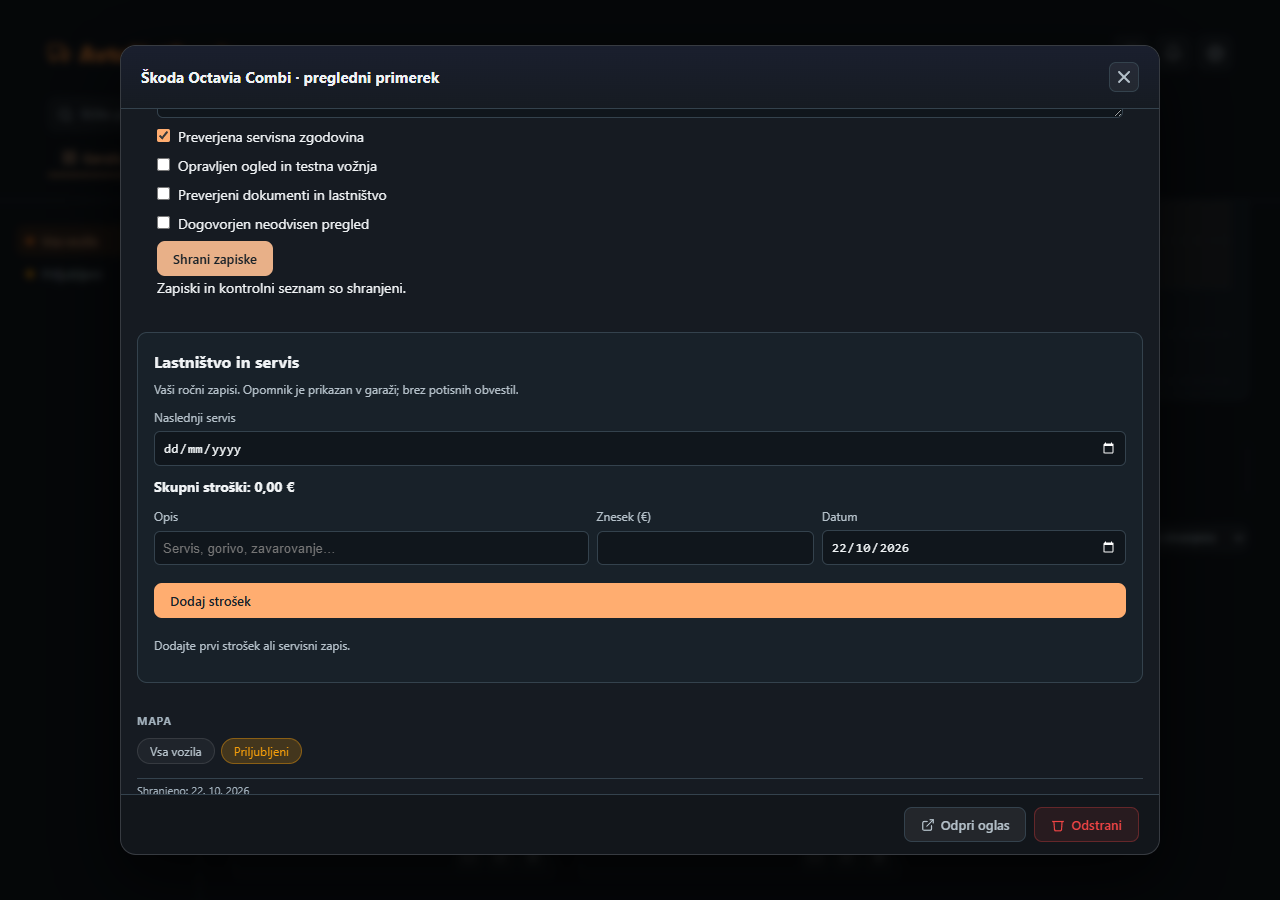
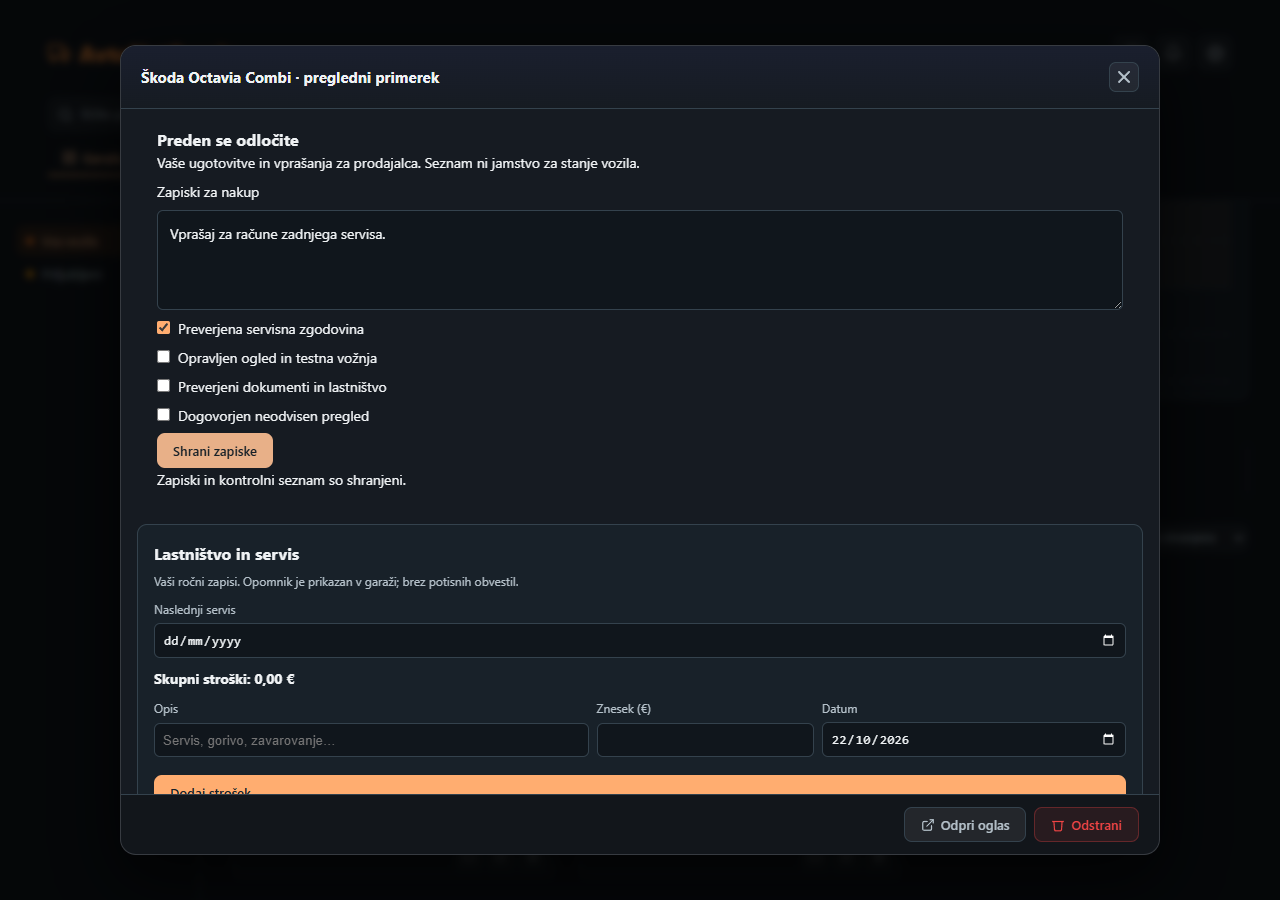
Complete screenshot review and clarify product limitations

diff --git a/extension/src/popup/components/NotificationsPanel.jsx b/extension/src/popup/components/NotificationsPanel.jsx
@@ -42,7 +42,7 @@ export default function NotificationsPanel({ notifications, onDataChange }) {
           </div>
           <h3 className="empty-title">Še ni obvestil</h3>
           <p className="empty-desc">
-            AvtoNetGaraža vas bo obvestila, ko se cena spremeni ali ko je oglas prodan oziroma odstranjen.
+            Tu se prikažejo zaznane spremembe cene in statusa. Preverjanje je mogoče le, ko avto.net omogoča dostop do oglasa.
           </p>
         </div>
       </div>

diff --git a/extension/src/popup/components/Settings.jsx b/extension/src/popup/components/Settings.jsx
@@ -86,7 +86,7 @@ export default function Settings({ settings, onDataChange }) {
         <div className="settings-row">
           <div>
             <h3>Chrome obvestila</h3>
-            <p>Spremljanje cen in statusa deluje tudi, ko so obvestila izklopljena.</p>
+            <p>Preverjanje poteka tudi brez obvestil, če avto.net omogoča dostop do oglasa.</p>
           </div>
           <label className="switch">
             <input

diff --git a/docs/flagship/VISUAL_QA_REPORT.md b/docs/flagship/VISUAL_QA_REPORT.md
@@ -1,0 +1,33 @@
+# Visual QA report — 22 October 2026
+
+Actual extension pages were rendered in isolated Chromium profiles. Screenshots use synthetic data, never private browsing history. The before views are labeled in the gallery; they show the prior candidate UI, not a claim that those candidates were published. No generated mockup substitutes for product rendering.
+
+## AvtoNetGaraža 1.2.0
+
+Reviewed: compact launcher, full-tab garage, comparison, vehicle detail and notes, folders, notification empty state and settings/error recovery. See screenshots/avtonet-*-after.png.
+
+The old popup crammed the garage into limited space. The new 380px launcher opens a full-tab workspace. Comparison differences have text labels and asking-price gaps; notes and a purchase checklist belong to the vehicle detail. An early pass retained low-contrast gradient buttons; these were replaced with solid orange controls and dark text. Malformed backup JSON originally exposed an unhelpful English parser error; it now produces a wrapped Slovenian explanation. Settings and notifications now qualify marketplace checks on access being available.
+
+Final inspection: headings and controls are readable, folder rows align, empty states explain the next state, and detail controls fit the dialog. Missing listing photos intentionally exercise the fallback. The large workspace leaves room for a real shortlist; empty secondary sections do not invent data. Browser-native file-input wording follows browser locale. Live marketplace behavior remains restricted and is not certified by these screenshots.
+
+## YouTube Focus Mode 3.2.0
+
+Reviewed: first-run view, compact configured view, expanded granular controls, focus session and dark appearance. See screenshots/youtube-*-after.png.
+
+The first redesign was too tall with every setting exposed. Granular controls and preset naming now use disclosures; the main configured view fits a 380px by 600px viewport. The switch leads the hierarchy, with view/session tabs separating tasks. Named presets and the five-minute pause have visible status. Keyboard timer selection exposed a stale Start label; rendering was corrected and tested.
+
+Final inspection: compact view has clear hierarchy and readable controls; dark session view remains legible. Expanded advanced controls can scroll. No time-saved claims or unsupported classification are shown.
+
+## Auto Life Logger 2.3.0
+
+Reviewed: weekly overview, Sites, Patterns, Score details, Milestones, Reports, History, Settings, popup, onboarding and options. See screenshots/logger-*-after.png.
+
+The first light-theme pass retained dark gradients and faint chart text. These were replaced with light surfaces and darker labels. The weekly review and popup now lead with recorded time, not a productivity score. Quiet onboarding is available before detailed configuration. Score details describe a rule-based estimate; milestone thresholds no longer label a day good or bad.
+
+Screenshot review caught apparently empty Sites and achievement panels plus a stale navigation highlight. DOM assertions confirmed populated content; finite animations were captured before completion by headless Chromium. Capture now finishes animations and asserts the selected section and seeded Sites data. The repeated screenshots show populated rows, unlocked/locked achievement states and the correct highlighted section. This was a capture defect, not evidence that empty screenshots were acceptable.
+
+Final inspection: the dashboard has consistent readable type, aligned panels, labeled charts, quiet colors and explicit empty states. Secondary legacy score/milestone features remain and are less central; some historical achievement wording is still motivational rather than analytical. Reports are shown honestly empty until generated.
+
+## Coverage and limits
+
+Keyboard interactions, native labels, visible focus styles, responsive layouts and reduced-motion styles have targeted coverage. This is not a complete WCAG 2.2 AA conformance audit. Screen-reader testing with assistive technology and genuine five-person usability sessions remain outstanding. Public competitor-page captures are research evidence, not signed-in product audits. Review performance methodology in PERFORMANCE.json and the release report before interpreting timings.
